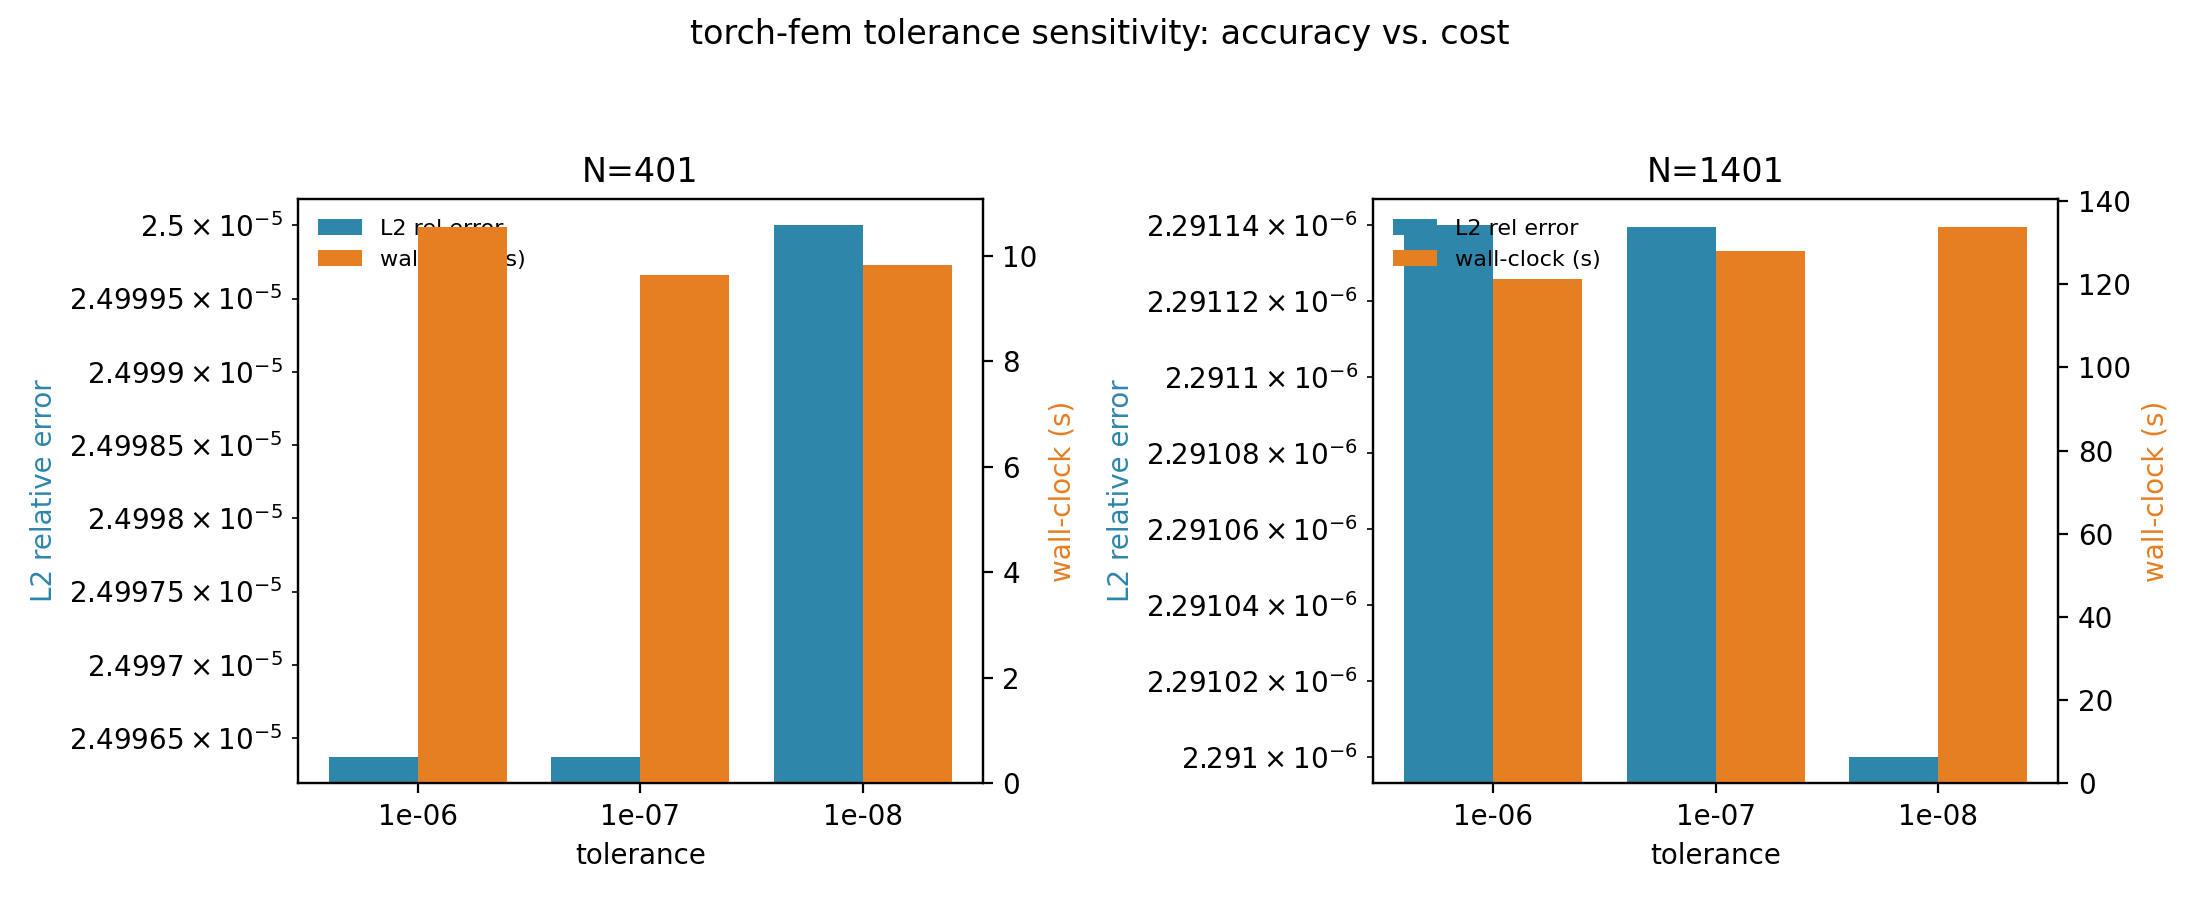
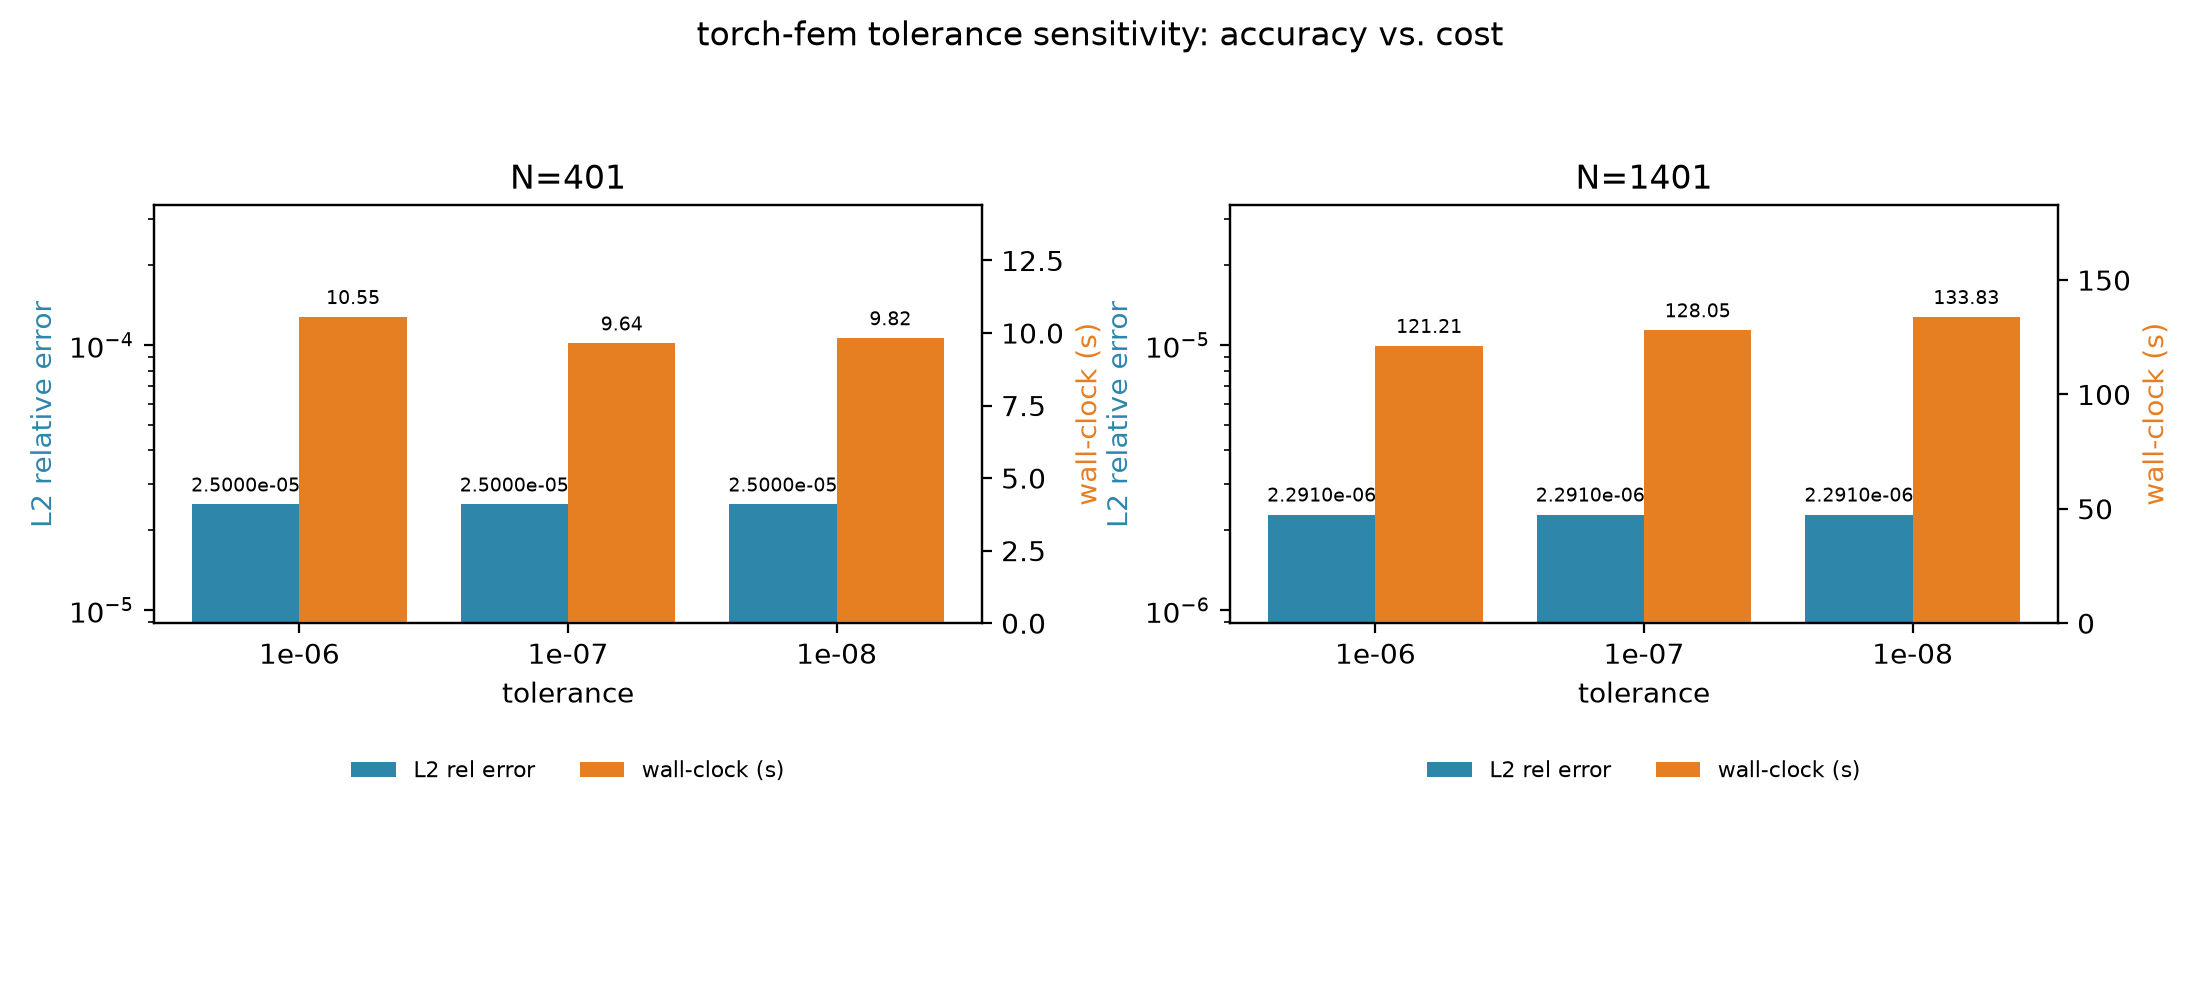
Fix Figure 43's legend overlapping the bars, flagged by Omar directly
The tolerance-sensitivity figure was the one round-9 figure that didn't
use add_bar_labels for exact values, relying instead on an extreme
y-axis zoom to show the near-identical L2 values -- which pushed bars
up under the default 'upper left' legend, rendering the legend text
unreadable where it overlapped. Fixed with legend_below (this project's
own helper) and explicit add_bar_labels on both series. Regenerated
locally from the already-committed real data, no new Colab run needed.
Updated the notebook source and replaced the embedded figure in both
real documents.

Claude-Session: https://claude.ai/code/session_01HX6Lr5YENQbEkvto9y2AB8

diff --git a/Practical_Examples/zeroshot_notebooks/cell_torchfem_tolerance_sensitivity.py b/Practical_Examples/zeroshot_notebooks/cell_torchfem_tolerance_sensitivity.py
@@ -90,10 +90,10 @@ import matplotlib
 matplotlib.use('Agg')
 import matplotlib.pyplot as plt
 import numpy as np
-from plot_style import PRIMARY, SECONDARY, add_bar_labels
+from plot_style import PRIMARY, SECONDARY, add_bar_labels, legend_below
 
 tols_sorted = sorted(all_rows.keys(), reverse=True)  # 1e-6, 1e-7, 1e-8
-fig, axes = plt.subplots(1, 2, figsize=(11, 4.5), dpi=200)
+fig, axes = plt.subplots(1, 2, figsize=(11, 5.0), dpi=200)
 
 for N, ax_col in zip(RESOLUTIONS, [0, 1]):
     ax = axes[ax_col]
@@ -110,11 +110,24 @@ for N, ax_col in zip(RESOLUTIONS, [0, 1]):
     ax.set_ylabel('L2 relative error', color=PRIMARY)
     ax2.set_ylabel('wall-clock (s)', color=SECONDARY)
     ax.set_title(f'N={N}')
+    # 2026-09-10 fix (Omar flagged this figure directly): the original
+    # 'upper left' legend with frameon=False rendered its text directly on
+    # top of the tallest bars, unreadable where they overlapped, AND relied
+    # on an extreme y-axis zoom (six-digit tick labels) to show the
+    # near-identical L2 values across tolerances instead of printing them --
+    # inconsistent with every other figure in this project, which uses
+    # add_bar_labels for exact values. Fixed both: legend_below (always
+    # clear of the bars regardless of height) and explicit add_bar_labels on
+    # both series, with headroom (set_ylim) so the labels don't clip.
+    ax.set_ylim(top=ax.get_ylim()[1] * 3)
+    ax2.set_ylim(top=ax2.get_ylim()[1] * 1.3)
+    add_bar_labels(ax, b1, fmt='{:.4e}', fontsize=7)
+    add_bar_labels(ax2, b2, fmt='{:.2f}', fontsize=7)
     lines = [b1, b2]
-    ax.legend(lines, [l.get_label() for l in lines], frameon=False, fontsize=8, loc='upper left')
+    legend_below(ax, ncol=2, y=-0.28, handles=lines, labels=[l.get_label() for l in lines])
 
 fig.suptitle('torch-fem tolerance sensitivity: accuracy vs. cost', fontsize=12)
-fig.tight_layout(rect=[0, 0, 1, 0.93])
+fig.tight_layout(rect=[0, 0.08, 1, 0.93])
 FIG_PATH = f'{R}/fig_torchfem_tolerance_sensitivity.png'
 fig.savefig(FIG_PATH)
 print('Saved figure:', FIG_PATH)

diff --git a/PROJECT_STATUS.md b/PROJECT_STATUS.md
@@ -5,7 +5,32 @@ It is the single source of truth for where things stand — more reliable than
 chat history, which resets between sessions. Update it whenever a task
 finishes or a new one starts.
 
-Last updated: 2026-09-10 (**REAL PRODUCTION-SCALE SUCCESS at N=401 and
+Last updated: 2026-09-10 (**Omar reviewed the round-9 figures directly
+and flagged a real defect in Figure 43 (torch-fem tolerance
+sensitivity): the legend (placed 'upper left', frameon=False) rendered
+its text directly on top of the tallest bars, unreadable where they
+overlapped. Fixed and re-embedded in both documents.**
+
+Root cause: this was the ONE figure in the whole round-9 batch that
+didn't use `add_bar_labels` for exact values -- it relied instead on an
+extreme y-axis zoom (six-digit tick labels) to show the near-identical
+L2 values across tolerances, which pushed the tallest bars close to the
+top of the axes and directly under the default legend position.
+Inconsistent with house style, not just a placement bug.
+
+Fixed both things: moved the legend to `legend_below` (this project's
+own plot_style.py helper, always clear of the bars regardless of
+height) and added explicit `add_bar_labels` on both series instead of
+relying on axis zoom -- now shows "2.5000e-05" identically on all three
+tolerance bars at N=401, the real finding, directly and precisely,
+matching every other figure's own style. Regenerated locally from the
+already-committed real data (`torchfem_tolerance_sensitivity_results.
+json`) -- no new Colab run needed, this was a plotting-code fix, not a
+data fix. Updated the notebook cell source too (so a future re-run
+produces the corrected figure directly), rebuilt all 58 notebooks, and
+replaced the embedded Figure 43 image in both real documents in place.
+
+Previous update, 2026-09-10 (**REAL PRODUCTION-SCALE SUCCESS at N=401 and
 N=701 -- TensorMesh, real cuDSS direct solver, sparse jac_fn, matching
 torch-fem's own numbers closely.** The version-pin fix worked
 completely for these two: N=401 solved in 5.11s (l2_rel=2.500e-05,
